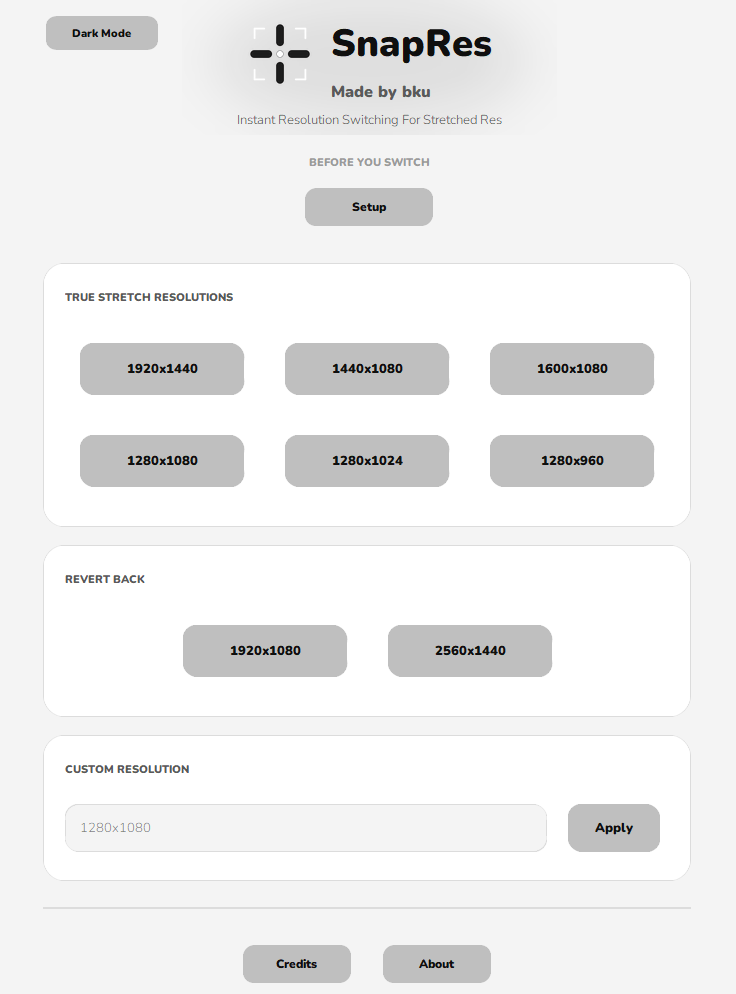
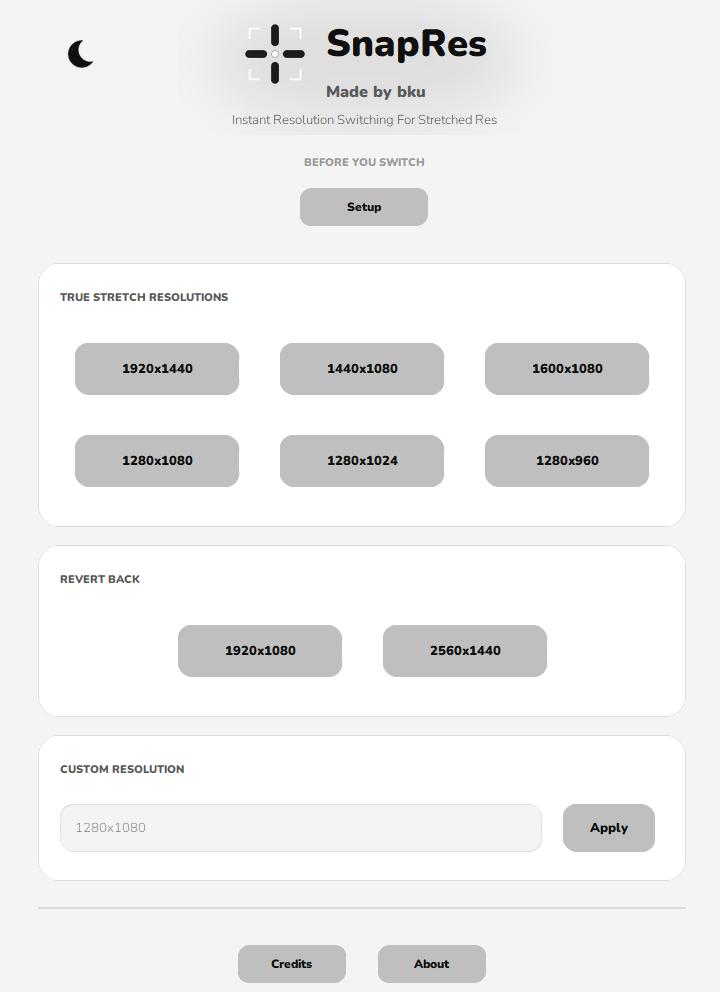
update source, spec, and screenshots

diff --git a/SnapRes.py b/SnapRes.py
@@ -3,12 +3,11 @@ SnapRes - Competitive Resolution Switcher
 Coded by bku
 
 Fonts:
-    Put your Nunito .ttf files in a "fonts" folder next to this script:
-        fonts/Nunito-Black.ttf
-        fonts/Nunito-Light.ttf
-    (Nunito is free/open at fonts.google.com/specimen/Nunito if you don't
-    already have the files.) These are loaded as PRIVATE fonts at runtime
-    via ctypes, so end users do NOT need Nunito installed on their PC.
+    Put your font .ttf files in a "fonts" folder next to this script:
+        fonts/yourfonttype1.ttf
+        fonts/yourfonttype2.ttf
+    These are loaded as PRIVATE fonts at runtime
+    via ctypes, so end users do NOT need your font installed on their PC.
     If the filenames you have differ, just update FONT_FILES below.
 
 Build:
@@ -125,6 +124,13 @@ THEMES = {
         glow_rgba=(15, 15, 15, 24),
         status_ok="#2f6f4f",
         status_bad="#8a2f2f",
+        # Idle chip is a light gray; hovering inverts to a dark chip with
+        # light text, so the hover is a clear reversal, not a wash-out
+        # against the already-light background.
+        btn_idle=GRAY_300,
+        btn_hover=GRAY_900,
+        btn_text=GRAY_900,
+        btn_hover_text=WHITE,
     ),
     "dark": dict(
         bg=GRAY_900,
@@ -137,10 +143,17 @@ THEMES = {
         glow_rgba=(255, 255, 255, 30),
         status_ok="#7fe3ac",
         status_bad="#ff8a8a",
+        # Idle chip is a light gray on the dark background; hovering
+        # brightens it to white, which already reads as a clear highlight.
+        btn_idle=GRAY_300,
+        btn_hover=WHITE,
+        btn_text=GRAY_900,
+        btn_hover_text=GRAY_900,
     ),
 }
 
-# Buttons
+# Fallback defaults (used only if a HoverButton is ever built without
+# theme colors passed in explicitly).
 BUTTON_IDLE = GRAY_300
 BUTTON_HOVER = WHITE
 BUTTON_TEXT = GRAY_900
@@ -398,6 +411,101 @@ def _ease_out(t):
 
 
 # ---------------------------------------------------------------------------
+# Theme-toggle icons (drawn, not loaded from files)
+# ---------------------------------------------------------------------------
+# Both are rendered at 4x then downsampled with LANCZOS for clean anti-
+# aliased edges, on a fully transparent canvas so they drop straight onto
+# whatever background is behind the button - no chip, no re-theming needed
+# later when the background changes.
+
+def _draw_moon_icon(size, rgb):
+    """Crescent moon - shown while in light mode, to switch to dark.
+    Colored with the current theme's text color so it's always legible
+    against the panel/background it's sitting on."""
+    scale = 4
+    s = size * scale
+    img = Image.new("RGBA", (s, s), (0, 0, 0, 0))
+    d = ImageDraw.Draw(img)
+
+    r = s * 0.34
+    cx, cy = s * 0.52, s * 0.50
+    d.ellipse([cx - r, cy - r, cx + r, cy + r], fill=(*rgb, 255))
+
+    # "Cut" a second, offset circle out of the first using a fully
+    # transparent fill - this carves out the crescent shape.
+    cut_r = r * 0.86
+    cut_cx = cx + r * 0.62
+    cut_cy = cy - r * 0.30
+    d.ellipse(
+        [cut_cx - cut_r, cut_cy - cut_r, cut_cx + cut_r, cut_cy + cut_r],
+        fill=(0, 0, 0, 0),
+    )
+
+    return img.resize((size, size), Image.LANCZOS)
+
+
+def _draw_glow_icon(size, rgb=(255, 255, 255)):
+    """Soft glowing circle - shown while in dark mode, to switch to
+    light. Reuses the same soft glow already used behind the header logo,
+    so it reads as part of the app's existing visual language."""
+    scale = 4
+    s = size * scale
+    img = Image.new("RGBA", (s, s), (0, 0, 0, 0))
+    d = ImageDraw.Draw(img)
+    cx, cy = s / 2, s / 2
+
+    for rad, alpha in ((0.50, 35), (0.40, 65), (0.30, 110)):
+        r = s * rad
+        d.ellipse([cx - r, cy - r, cx + r, cy + r], fill=(*rgb, alpha))
+
+    r_core = s * 0.20
+    d.ellipse(
+        [cx - r_core, cy - r_core, cx + r_core, cy + r_core],
+        fill=(*rgb, 255),
+    )
+
+    img = img.filter(ImageFilter.GaussianBlur(s * 0.015))
+    return img.resize((size, size), Image.LANCZOS)
+
+
+def _scale_alpha(img, factor):
+    """Scale only the alpha channel of an RGBA image by `factor` (0-1),
+    leaving every RGB value untouched. Used to fade the hover halo in/out
+    without any hue shift or color interpolation along the way."""
+    if factor >= 0.999:
+        return img
+    if factor <= 0.001:
+        return Image.new("RGBA", img.size, (0, 0, 0, 0))
+    r, g, b, a = img.split()
+    a = a.point(lambda v: int(v * factor))
+    return Image.merge("RGBA", (r, g, b, a))
+
+
+def _draw_halo(canvas_size, rgb, max_alpha=100):
+    """Soft radial glow used behind the theme-toggle icon on hover - a
+    'selected' halo. Built once at full opacity per icon color; faded in
+    and out afterward purely via _scale_alpha, so the color never shifts
+    mid-animation, only its strength."""
+    scale = 3
+    s = canvas_size * scale
+    img = Image.new("RGBA", (s, s), (0, 0, 0, 0))
+    d = ImageDraw.Draw(img)
+    cx = cy = s / 2
+
+    steps = 24
+    for i in range(steps, 0, -1):
+        t = i / steps
+        r = (s * 0.46) * t
+        alpha = int(max_alpha * (1 - t) ** 1.6)
+        if alpha <= 0:
+            continue
+        d.ellipse([cx - r, cy - r, cx + r, cy + r], fill=(*rgb, alpha))
+
+    img = img.filter(ImageFilter.GaussianBlur(s * 0.02))
+    return img.resize((canvas_size, canvas_size), Image.LANCZOS)
+
+
+# ---------------------------------------------------------------------------
 # Hover button
 # ---------------------------------------------------------------------------
 
@@ -502,6 +610,99 @@ class HoverButton(ctk.CTkFrame):
                 self._anim_job = None
 
         step()
+
+
+# ---------------------------------------------------------------------------
+# Icon toggle button (chip-free)
+# ---------------------------------------------------------------------------
+
+# ---------------------------------------------------------------------------
+# Icon toggle button (chip-free, with a real hover "select" effect)
+# ---------------------------------------------------------------------------
+
+# ---------------------------------------------------------------------------
+# Icon toggle button (chip-free, with a real hover "select" effect)
+# ---------------------------------------------------------------------------
+# Drawn directly onto the header's own Canvas via create_image/tag_bind -
+# the same technique already used for the logo, glow, and the clickable
+# credit line just above it. A CTkButton was tried first, but CTkButton
+# renders its image through an internal child Label that fully covers the
+# button; Tkinter's <Enter>/<Leave> only fire on whatever widget is
+# directly under the cursor, so those events landed on that hidden child
+# instead of the button we bound - the animation never ran. A single
+# canvas item has no children to steal the event, so hover is reliable.
+
+class IconToggleAnimator:
+    """Owns the hover animation state for a canvas-drawn toggle icon:
+    zooms the icon up and fades in a soft halo behind it. Both effects
+    are pure resize / alpha-channel scaling - never color blending - so
+    nothing shifts hue or flickers mid-animation."""
+
+    def __init__(self, canvas, item_id, icon_builder, icon_rgb,
+                 size=44, hover_grow=12, halo_alpha=110,
+                 steps=10, interval=12):
+        self.canvas = canvas
+        self.item_id = item_id
+        self._base_icon = size
+        self._hover_icon = size + hover_grow
+        self._canvas_size = int(self._hover_icon * 1.9)
+        self._steps, self._interval = steps, interval
+        self._t = 0.0
+        self._anim_job = None
+        self._photo = None  # keep a reference alive - Tk drops GC'd images
+
+        # Both rendered once at the larger (hover) resolution - every
+        # animation frame just resizes/alpha-scales these masters rather
+        # than redrawing, so frames stay cheap and consistent.
+        self._icon_master = icon_builder(self._hover_icon, icon_rgb)
+        self._halo_master = _draw_halo(self._canvas_size, icon_rgb, max_alpha=halo_alpha)
+
+        self.render(0.0)
+
+    @property
+    def canvas_size(self):
+        return self._canvas_size
+
+    def on_enter(self, _e=None):
+        self._animate(1.0)
+
+    def on_leave(self, _e=None):
+        self._animate(0.0)
+
+    def _animate(self, target_t):
+        if self._anim_job:
+            self.canvas.after_cancel(self._anim_job)
+            self._anim_job = None
+        start_t = self._t
+
+        def step(i=0):
+            eased = _ease_out(i / self._steps)
+            self.render(start_t + (target_t - start_t) * eased)
+            if i < self._steps:
+                self._anim_job = self.canvas.after(self._interval, lambda: step(i + 1))
+            else:
+                self._anim_job = None
+
+        step()
+
+    def render(self, t):
+        t = max(0.0, min(1.0, t))
+        self._t = t
+
+        icon_size = max(1, int(self._base_icon + (self._hover_icon - self._base_icon) * t))
+        icon_frame = self._icon_master.resize((icon_size, icon_size), Image.LANCZOS)
+        halo_frame = _scale_alpha(self._halo_master, t)
+
+        composite = Image.new("RGBA", (self._canvas_size, self._canvas_size), (0, 0, 0, 0))
+        composite.alpha_composite(halo_frame, (0, 0))
+        off = (self._canvas_size - icon_size) // 2
+        composite.alpha_composite(icon_frame, (off, off))
+
+        self._photo = ImageTk.PhotoImage(composite)
+        try:
+            self.canvas.itemconfig(self.item_id, image=self._photo)
+        except Exception:
+            pass
 
 
 # ---------------------------------------------------------------------------
@@ -706,18 +907,43 @@ class ResSwitcherApp(ctk.CTk):
         setup_btn = HoverButton(
             c, text="Setup", command=self.show_setup,
             width=128, height=38, corner_radius=11, font=FT(12),
+            fg_color=C["btn_idle"], hover_color=C["btn_hover"],
+            text_color=C["btn_text"], hover_text_color=C["btn_hover_text"],
             blend_color=C["bg"], grow=5,
         )
         c.create_window(WIN_W / 2, setup_label_y + 46, window=setup_btn, anchor="center", tags="header")
 
-        # Theme toggle
-        toggle_label = "Dark Mode" if self.mode == "light" else "Light Mode"
-        toggle_btn = HoverButton(
-            c, text=toggle_label, command=self._toggle_theme,
-            width=112, height=34, corner_radius=10, font=FT(11),
-            blend_color=C["bg"], grow=4,
+        # Theme toggle - a moon while in light mode (switches to dark), a
+        # glowing circle while in dark mode (switches to light). Drawn
+        # straight on this canvas (like the logo/glow above), so hover
+        # zoom + halo glow reliably fires instead of getting swallowed by
+        # a child widget.
+        icon_size = 40
+        if self.mode == "light":
+            icon_builder = _draw_moon_icon
+            icon_rgb = _hex_to_rgb(C["text_main"])
+        else:
+            icon_builder = _draw_glow_icon
+            icon_rgb = (255, 255, 255)
+
+        toggle_item = c.create_image(20, 20, anchor="nw", tags="header")
+        toggle_anim = IconToggleAnimator(
+            c, toggle_item, icon_builder, icon_rgb,
+            size=icon_size, hover_grow=12, halo_alpha=110,
         )
-        c.create_window(20, 22, window=toggle_btn, anchor="nw", tags="header")
+        self._theme_toggle_anim = toggle_anim  # keep alive - holds the PhotoImage refs
+
+        def _toggle_enter(_e):
+            c.config(cursor="hand2")
+            toggle_anim.on_enter()
+
+        def _toggle_leave(_e):
+            c.config(cursor="")
+            toggle_anim.on_leave()
+
+        c.tag_bind(toggle_item, "<Enter>", _toggle_enter)
+        c.tag_bind(toggle_item, "<Leave>", _toggle_leave)
+        c.tag_bind(toggle_item, "<Button-1>", lambda e: self._toggle_theme())
 
     def _build_content_frame(self):
         C = self.C
@@ -776,6 +1002,8 @@ class ResSwitcherApp(ctk.CTk):
             HoverButton(
                 grid, text=label, width=165, height=52,
                 corner_radius=14, font=FT(13),
+                fg_color=C["btn_idle"], hover_color=C["btn_hover"],
+                text_color=C["btn_text"], hover_text_color=C["btn_hover_text"],
                 blend_color=C["panel"], grow=6,
                 command=lambda w=width, h=height: self.apply_resolution(w, h),
             ).grid(row=r, column=c, padx=9, pady=9)
@@ -819,6 +1047,8 @@ class ResSwitcherApp(ctk.CTk):
         HoverButton(
             row, text="Apply", command=self.apply_custom,
             width=92, height=48, corner_radius=14, font=FT(13),
+            fg_color=C["btn_idle"], hover_color=C["btn_hover"],
+            text_color=C["btn_text"], hover_text_color=C["btn_hover_text"],
             blend_color=C["panel"], grow=4,
         ).pack(side="left", padx=(12, 0))
 
@@ -883,6 +1113,8 @@ class ResSwitcherApp(ctk.CTk):
             HoverButton(
                 footer, text=label, command=cmd,
                 width=108, height=38, corner_radius=11, font=FT(12),
+                fg_color=C["btn_idle"], hover_color=C["btn_hover"],
+                text_color=C["btn_text"], hover_text_color=C["btn_hover_text"],
                 blend_color=C["bg"], grow=5,
             ).pack(side="left", padx=6)
 
@@ -1017,11 +1249,15 @@ class ResSwitcherApp(ctk.CTk):
             HoverButton(
                 links_row, text="YouTube", command=lambda: webbrowser.open(YOUTUBE_URL),
                 width=110, height=40, corner_radius=12, font=FT(12),
+                fg_color=C["btn_idle"], hover_color=C["btn_hover"],
+                text_color=C["btn_text"], hover_text_color=C["btn_hover_text"],
                 blend_color=C["bg"], grow=4,
             ).pack(side="left", padx=(0, 10))
             HoverButton(
                 links_row, text="GitHub", command=lambda: webbrowser.open(GITHUB_URL),
                 width=110, height=40, corner_radius=12, font=FT(12),
+                fg_color=C["btn_idle"], hover_color=C["btn_hover"],
+                text_color=C["btn_text"], hover_text_color=C["btn_hover_text"],
                 blend_color=C["bg"], grow=4,
             ).pack(side="left")
 
